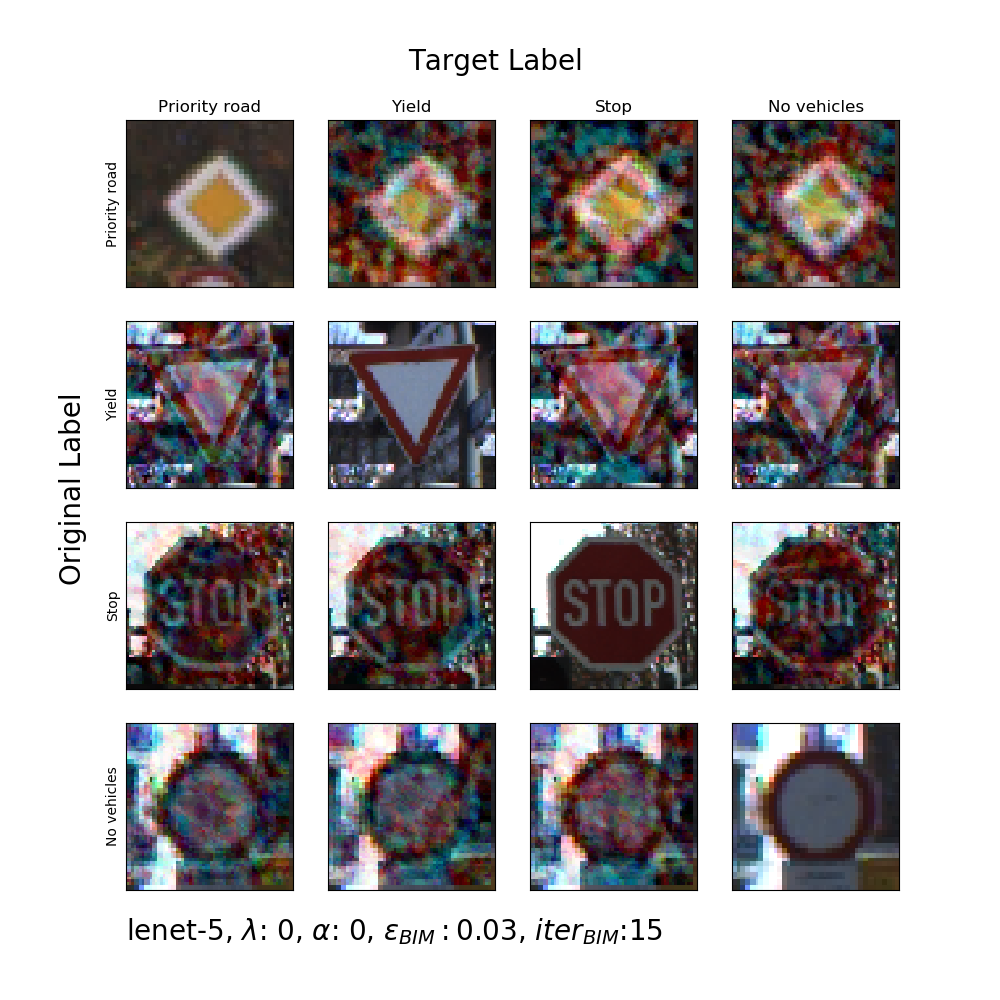
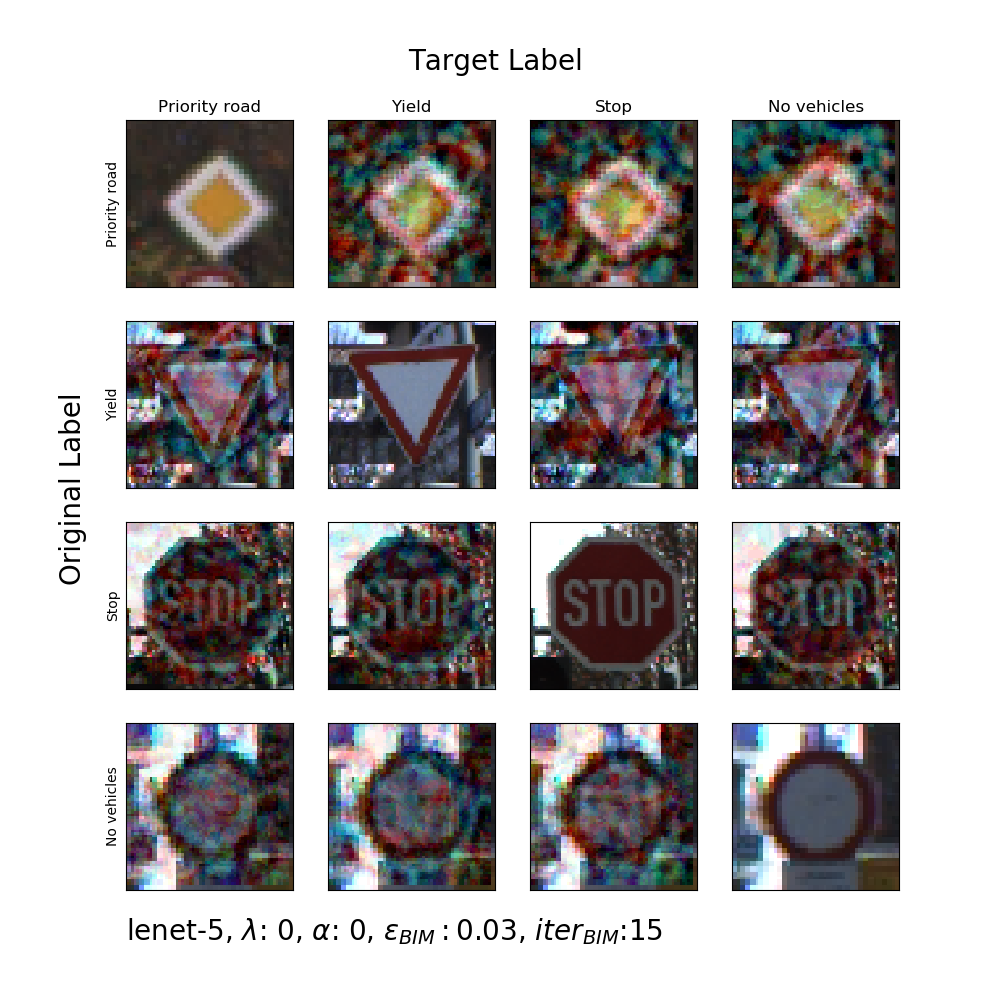
worked on thesis..

diff --git a/Thesis/Thesis.tex b/Thesis/Thesis.tex
@@ -486,12 +486,14 @@ Each column has the same attack target, while each row consists of the same orig
 A table containing accuracies and defense parameters for each combination of network architecture and defense strategy is given.
 $\alpha$ and $\epsilon$ FGSM stand for the weight of the adversarial loss and the maximal perturbation of Adversarial Inputs in the adversarial training loss function \ref{eq:adv_loss}, while $\lambda$ denotes the regularization-coefficient from \ref{eq:gradreg}.
 Additionally, the average and maximal input gradient among the validation-set is given.
+%todo: training params beschreiben
 
 
 \section{Results}
 
 The following sections contain the results of the experiment, each heading for a different combination of model and defense strategy.
-The most important attack, defense strategy and model parameters are presented in a table for each combination of model architecture and defense strategy.
+
+\clearpage
 
 \subsection{lenet-5 with no defenses implemented}
 
@@ -504,13 +506,14 @@ The most important attack, defense strategy and model parameters are presented i
 			$\lambda$								& 0				\\
 			$\alpha$								& 0				\\
 			$\epsilon$ FGSM					& 0.05		\\
+			Epochs training					& 20			\\
 			
-			Validation Accuracy			& 0.880		\\ 
-			Adv Accuracy - FGSM			& 0.179		\\
+			Validation Accuracy			& 0.892		\\ 
+			Adv Accuracy - FGSM			& 0.200		\\
 %			Adv Accuracy - SPA			& 0.898		\\
 			
-			Avg Input Gradient			& 19.134	\\
-			Max Input Gradient			& 2460.131\\
+			Avg Input Gradient			& 20.799	\\
+			Max Input Gradient			& 6521.212\\
     \bottomrule
   \end{tabular}
 \end{table}
@@ -545,13 +548,14 @@ The most important attack, defense strategy and model parameters are presented i
 			$\lambda$								& 0.4			\\
 			$\alpha$								& 0				\\
 			$\epsilon$ FGSM					& 0.05		\\
+			Epochs training					& 20			\\
 			
-			Validation Accuracy			& 0.786		\\ 
+			Validation Accuracy			& 0.760		\\ 
 			Adv Accuracy - FGSM			& 0.194		\\
 %			Adv Accuracy - SPA			& 0.898		\\
 			
-			Avg Input Gradient			& 11.814	\\
-			Max Input Gradient			& 542.744	\\
+			Avg Input Gradient			& 8.620		\\
+			Max Input Gradient			& 411.353	\\
     \bottomrule
   \end{tabular}
 \end{table}
@@ -586,13 +590,14 @@ The most important attack, defense strategy and model parameters are presented i
 			$\lambda$								& 0				\\
 			$\alpha$								& 0.5			\\
 			$\epsilon$ FGSM					& 0.05		\\
+			Epochs training					& 20			\\
 			
-			Validation Accuracy			& 0.778		\\ 
-			Adv Accuracy - FGSM			& 0.396		\\
+			Validation Accuracy			& 0.816		\\ 
+			Adv Accuracy - FGSM			& 0.405		\\
 			%Adv Accuracy - SPA			& 0.898		\\
 			
-			Avg Input Gradient			& 37.838	\\
-			Max Input Gradient			& 2701.587\\
+			Avg Input Gradient			& 22.584	\\
+			Max Input Gradient			& 2281.173\\
     \bottomrule
   \end{tabular}
 \end{table}
@@ -627,13 +632,14 @@ The most important attack, defense strategy and model parameters are presented i
 			$\lambda$								& 0.4			\\
 			$\alpha$								& 0.5			\\
 			$\epsilon$ FGSM					& 0.05		\\
+			Epochs training					& 20			\\
 			
-			Validation Accuracy			& 0.740		\\ 
+			Validation Accuracy			& 0.766		\\ 
 			Adv Accuracy - FGSM			& 0.400		\\
 			%Adv Accuracy - SPA			& 0.898		\\
 			
-			Avg Input Gradient			& 16.731	\\
-			Max Input Gradient			& 772.798	\\
+			Avg Input Gradient			& 13.832	\\
+			Max Input Gradient			& 521.101	\\
     \bottomrule
   \end{tabular}
 \end{table}
@@ -658,8 +664,6 @@ The most important attack, defense strategy and model parameters are presented i
 \clearpage
 
 
-
-
 \subsection{Alexnet with no defenses implemented}
 
 \begin{table}[h]
@@ -671,6 +675,7 @@ The most important attack, defense strategy and model parameters are presented i
 			$\lambda$								& 0				\\
 			$\alpha$								& 0				\\
 			$\epsilon$ FGSM					& 0.05		\\
+			Epochs training					& 10			\\
 			
 			Validation Accuracy			& 0.961		\\
 			Adv Accuracy - FGSM			& 0.342		\\
@@ -711,6 +716,7 @@ The most important attack, defense strategy and model parameters are presented i
 			$\lambda$								& 0.15		\\
 			$\alpha$								& 0				\\
 			$\epsilon$ FGSM					& 0.05		\\
+			Epochs training					& 10			\\
 			
 			Validation Accuracy			& 0.949		\\
 			Adv Accuracy - FGSM			& 0.375		\\
@@ -750,6 +756,7 @@ The most important attack, defense strategy and model parameters are presented i
 			$\lambda$								& 0				\\
 			$\alpha$								& 0.5			\\
 			$\epsilon$ FGSM					& 0.05		\\
+			Epochs training					& 10			\\
 			
 			Validation Accuracy			& 0.947		\\
 			Adv Accuracy - FGSM			& 0.633 	\\
@@ -790,10 +797,11 @@ The most important attack, defense strategy and model parameters are presented i
 			$\lambda$								& 0.15		\\
 			$\alpha$								& 0.5			\\
 			$\epsilon$ FGSM					& 0.05		\\
+			Epochs training					& 10			\\
 			
 			Validation Accuracy			& 0.904		\\
 			Adv Accuracy - FGSM			& 0.604		\\
-			Adv Accuracy - SPA			& 0.883		\\
+			%Adv Accuracy - SPA			& 0.883		\\
 			
 			Avg Input Gradient			& 22.241	\\
 			Max Input Gradient			& 1671.804\\
@@ -831,6 +839,7 @@ The most important attack, defense strategy and model parameters are presented i
 			$\lambda$								& 0				\\
 			$\alpha$								& 0				\\
 			$\epsilon$ FGSM					& 0.05		\\
+			Epochs training					& 10			\\
 			
 			Validation Accuracy			& 0.967		\\ 
 			Adv Accuracy - FGSM			& 0.222		\\
@@ -874,6 +883,7 @@ The most important attack, defense strategy and model parameters are presented i
 			$\lambda$								& 0.002				\\
 			$\alpha$								& 0				\\
 			$\epsilon$ FGSM					& 0.05		\\
+			Epochs training					& 10			\\
 			
 			Validation Accuracy			& 0.973		\\ 
 			Adv Accuracy - FGSM			& 0.272		\\
@@ -915,6 +925,7 @@ The most important attack, defense strategy and model parameters are presented i
 			$\lambda$								& 0				\\
 			$\alpha$								& 0.5			\\
 			$\epsilon$ FGSM					& 0.05		\\
+			Epochs training					& 10			\\
 			
 			Validation Accuracy			& 0.967		\\ 
 			Adv Accuracy - FGSM			& 0.758		\\
@@ -956,6 +967,7 @@ The most important attack, defense strategy and model parameters are presented i
 			$\lambda$								& 0.002				\\
 			$\alpha$								& 0.5					\\
 			$\epsilon$ FGSM					& 0.05		\\
+			Epochs training					& 10			\\
 			
 			Validation Accuracy			& 0.973		\\ 
 			Adv Accuracy - FGSM			& 0.777		\\
@@ -997,6 +1009,7 @@ The most important attack, defense strategy and model parameters are presented i
 			$\lambda$								& 0				\\
 			$\alpha$								& 0				\\
 			$\epsilon$ FGSM					& 0.05		\\
+			Epochs training					& 10			\\
 			
 			Validation Accuracy			& 0.978		\\ 
 			Adv Accuracy - FGSM			& 0.723		\\
@@ -1038,6 +1051,7 @@ The most important attack, defense strategy and model parameters are presented i
 			$\lambda$								& 0.002				\\
 			$\alpha$								& 0				\\
 			$\epsilon$ FGSM					& 0.05		\\
+			Epochs training					& 10			\\
 			
 			Validation Accuracy			& 0.984		\\ 
 			Adv Accuracy - FGSM			& 0.763		\\
@@ -1080,6 +1094,7 @@ The most important attack, defense strategy and model parameters are presented i
 			$\lambda$								& 0				\\
 			$\alpha$								& 0.5				\\
 			$\epsilon$ FGSM					& 0.05		\\
+			Epochs training					& 10			\\
 			
 			Validation Accuracy			& 0.902		\\ 
 			Adv Accuracy - FGSM			& 0.634		\\
@@ -1109,7 +1124,19 @@ The most important attack, defense strategy and model parameters are presented i
   \label{fig:exp:cm:resnet50_adv}
 \end{figure}
 
+\clearpage
+
 \section{Discussion}
+
+Adversarial defense strategies clearly increase the comprehensibility of Adversarial Inputs for lenet-5, alexnet and vgg19.
+Adversarial Inputs for defended classifiers are much more likely to resemble their target label than Adversarials for undefended classifiers.
+Adversarial Training is able to reach a higher validation accuracy among the validation- and Adversarial Inputs, and also forces TGSM to produce images that are closer to their target than Input Gradient Regularization.
+The reason for this probably lies in the way those defense-strategies work: input gradient regularization prevents small perturbations from changing the outcome by make predictions as stable as possible - the magnitude of changes need to grow to achieve a higher magnitude of change in the output.
+Adversarial Training on the other hand is more sensitive for pockets in the decision boundary.
+If a 'pocket' (or discontinuity in the input-output mapping) close ($\epsilon$) to the input images can be found, it will occur in the adversarial loss function, and force the training process to eliminate it.
+This process leads to even higher Input Gradients
+
+
 
 \chapter{Conclusion and Future Work}
 
